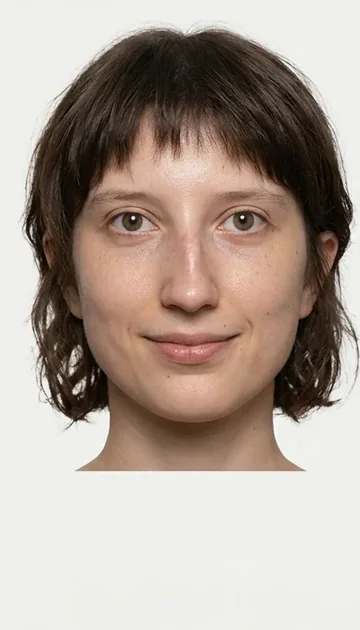
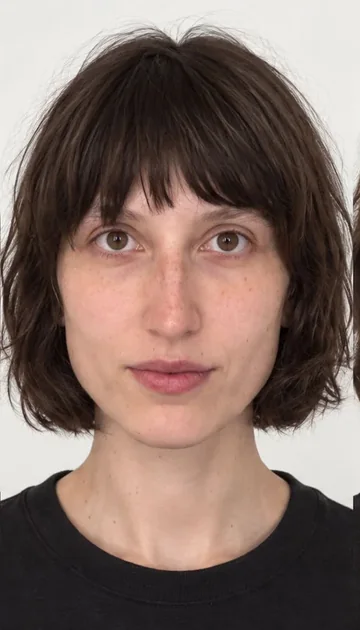
модели: новый канон Кати — лист GPT Image 2.5 Sunburst, 5 ракурсов (оба профиля, обе 3/4, фас)

diff --git a/data/models.js b/data/models.js
@@ -2,7 +2,7 @@
 // пересобирается из refs/models/registry.json + usage.json командой
 //     python3 scripts/build_models.py
 window.NNV_MODELS = {
-  "generated": "2026-09-03 15:34",
+  "generated": "2026-09-11 13:22",
   "unknown": [],
   "models": [
     {
@@ -11,21 +11,33 @@ window.NNV_MODELS = {
       "gender": "f",
       "height": null,
       "build": "худощавое/стройное, узкие плечи, длинная шея, тонкие руки",
-      "note": "Действующий лист — фас + 3/4 + профиль, оба боковых смотрят вправо, левого ракурса нет. Канон сверен, не трогаем: если нужна левая сторона — догенерить второй лист и сверить отдельно.",
-      "desc": "young woman, short dark chestnut wavy bob with a choppy fringe, light hazel eyes, freckles across the nose and cheeks, natural skin with no makeup, narrow shoulders, long neck, slim petite build",
+      "note": "Канон с 11.09 — лист GPT Image 2.5 Sunburst (Flora), вариант 1, выбран Алексеем: 5 видов (оба профиля, обе 3/4, фас). Референсы — три фото из чата 11.09 (chat-20260911-*) + face-photo-crop. Прежний лист 26.08 (только правая сторона) — character-sheet-old-20260826.png. Минус канона: причёска аккуратнее, чем в жизни (у Кати растрёпанный шэг) — в кадрах просить tousled choppy bob. Профили додуманы: живых профилей нет, ждём фото по брифу.",
+      "desc": "young woman, dark brown chin-length bob with a full, slightly choppy fringe covering the eyebrows, ends slightly tousled and wavy, hazel-brown eyes, faint freckles across the nose and cheeks, fair skin with natural redness, no makeup, narrow shoulders, long neck, slim build",
       "sheetStatus": "canon",
       "sheet": "img/models/katya/sheet.webp",
       "photos": [
         {
-          "file": "face-photo-crop.jpg",
+          "file": "chat-20260911-dcee7c56.webp",
           "url": "img/models/katya/photo-01.webp"
+        },
+        {
+          "file": "chat-20260911-efe07e04.jpg",
+          "url": "img/models/katya/photo-02.webp"
+        },
+        {
+          "file": "chat-20260911-f15c979d.jpg",
+          "url": "img/models/katya/photo-03.webp"
+        },
+        {
+          "file": "face-photo-crop.jpg",
+          "url": "img/models/katya/photo-04.webp"
         }
       ],
       "refs": [
         "face-photo-crop.jpg"
       ],
-      "prompt": "Character reference sheet of the EXACT same person as in the reference photo(s): young woman, short dark chestnut wavy bob with a choppy fringe, light hazel eyes, freckles across the nose and cheeks, natural skin with no makeup, narrow shoulders, long neck, slim petite build. One horizontal row of FIVE studio head-and-shoulders views of this same person, left to right: (1) left profile, (2) left three-quarter view, (3) frontal view, (4) right three-quarter view, (5) right profile. EXACT same face shape, eyes, nose, mouth in every view; preserve facial identity; do not beautify, do not slim, keep natural skin texture. Neutral calm expression, plain dark crew-neck top, plain seamless background of colour #F1F1EF, soft even studio light, photorealistic photography, consistent head size and eye level across all five views. No text, no labels, no watermarks.",
-      "promptBase": "Character reference sheet of the EXACT same person as in the reference photo(s): young woman, short dark chestnut wavy bob with a choppy fringe, light hazel eyes, freckles across the nose and cheeks, natural skin with no makeup, narrow shoulders, long neck, slim petite build. One horizontal row of FIVE studio head-and-shoulders views of this same person, left to right: (1) left profile, (2) left three-quarter view, (3) frontal view, (4) right three-quarter view, (5) right profile. EXACT same face shape, eyes, nose, mouth in every view; preserve facial identity; do not beautify, do not slim, keep natural skin texture. Neutral calm expression, plain dark crew-neck top, plain seamless background of colour #F1F1EF, soft even studio light, photorealistic photography, consistent head size and eye level across all five views. No text, no labels, no watermarks.",
+      "prompt": "Character reference sheet of the EXACT same person as in the reference photo(s): young woman, dark brown chin-length bob with a full, slightly choppy fringe covering the eyebrows, ends slightly tousled and wavy, hazel-brown eyes, faint freckles across the nose and cheeks, fair skin with natural redness, no makeup, narrow shoulders, long neck, slim build. One horizontal row of FIVE studio head-and-shoulders views of this same person, left to right: (1) left profile, (2) left three-quarter view, (3) frontal view, (4) right three-quarter view, (5) right profile. EXACT same face shape, eyes, nose, mouth in every view; preserve facial identity; do not beautify, do not slim, keep natural skin texture. Neutral calm expression, plain dark crew-neck top, plain seamless background of colour #F1F1EF, soft even studio light, photorealistic photography, consistent head size and eye level across all five views. No text, no labels, no watermarks.",
+      "promptBase": "Character reference sheet of the EXACT same person as in the reference photo(s): young woman, dark brown chin-length bob with a full, slightly choppy fringe covering the eyebrows, ends slightly tousled and wavy, hazel-brown eyes, faint freckles across the nose and cheeks, fair skin with natural redness, no makeup, narrow shoulders, long neck, slim build. One horizontal row of FIVE studio head-and-shoulders views of this same person, left to right: (1) left profile, (2) left three-quarter view, (3) frontal view, (4) right three-quarter view, (5) right profile. EXACT same face shape, eyes, nose, mouth in every view; preserve facial identity; do not beautify, do not slim, keep natural skin texture. Neutral calm expression, plain dark crew-neck top, plain seamless background of colour #F1F1EF, soft even studio light, photorealistic photography, consistent head size and eye level across all five views. No text, no labels, no watermarks.",
       "promptCustom": false,
       "items": [
         "cap-fangs",

diff --git a/data/faces.js b/data/faces.js
@@ -1,7 +1,7 @@
 // Модели для фильтра в каталоге. НЕ ПРАВИТЬ РУКАМИ:
 //     python3 scripts/build_models.py
 window.NNV_FACES = {
-  "generated": "2026-09-03 15:34",
+  "generated": "2026-09-11 13:22",
   "models": [
     {
       "name": "katya",
